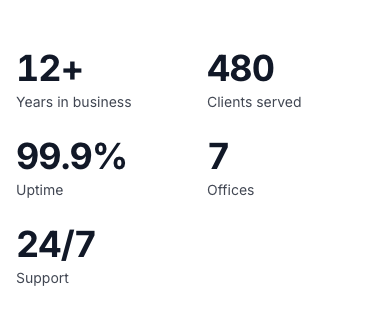
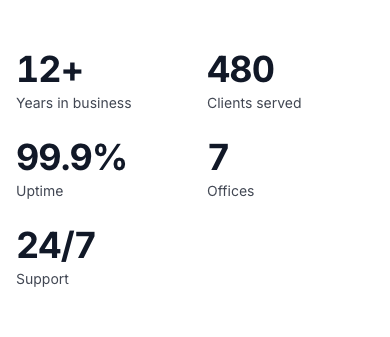
fix(astro-kit): keep stats figures on one line and fit them to their cell
A figure was one wrappable text node, so "99.9%" in a four-card row at 768px broke
into "99.9" / "%". The value is now whitespace-nowrap; in a grid each cell is a size
container and the figure is capped by 100cqi over its character count, so only a long
figure shrinks and a short one keeps its valueSize. Three fixtures cover long figures
(four columns, two columns at xl, three at display). Baselines: 5 stats images changed
(the two display-icons ones and four-card-muted-768 carried the broken wrap; five/six
columns and measured at 390 shrink by a pixel), 9 new.

diff --git a/.changeset/stats-figure-nowrap.md b/.changeset/stats-figure-nowrap.md
@@ -1,0 +1,5 @@
+---
+"@contentrain/astro-kit": patch
+---
+
+`stats` keeps a figure with its prefix and suffix on one line ("99.9%" no longer breaks into "99.9" / "%" in a narrow card). In a grid, the figure's size is capped by its cell and its character count, so a long figure ("1.250+", "€12.5M") shrinks to fit the card; a short one keeps the size `valueSize` gives it. The inline layout only stops wrapping a figure.
